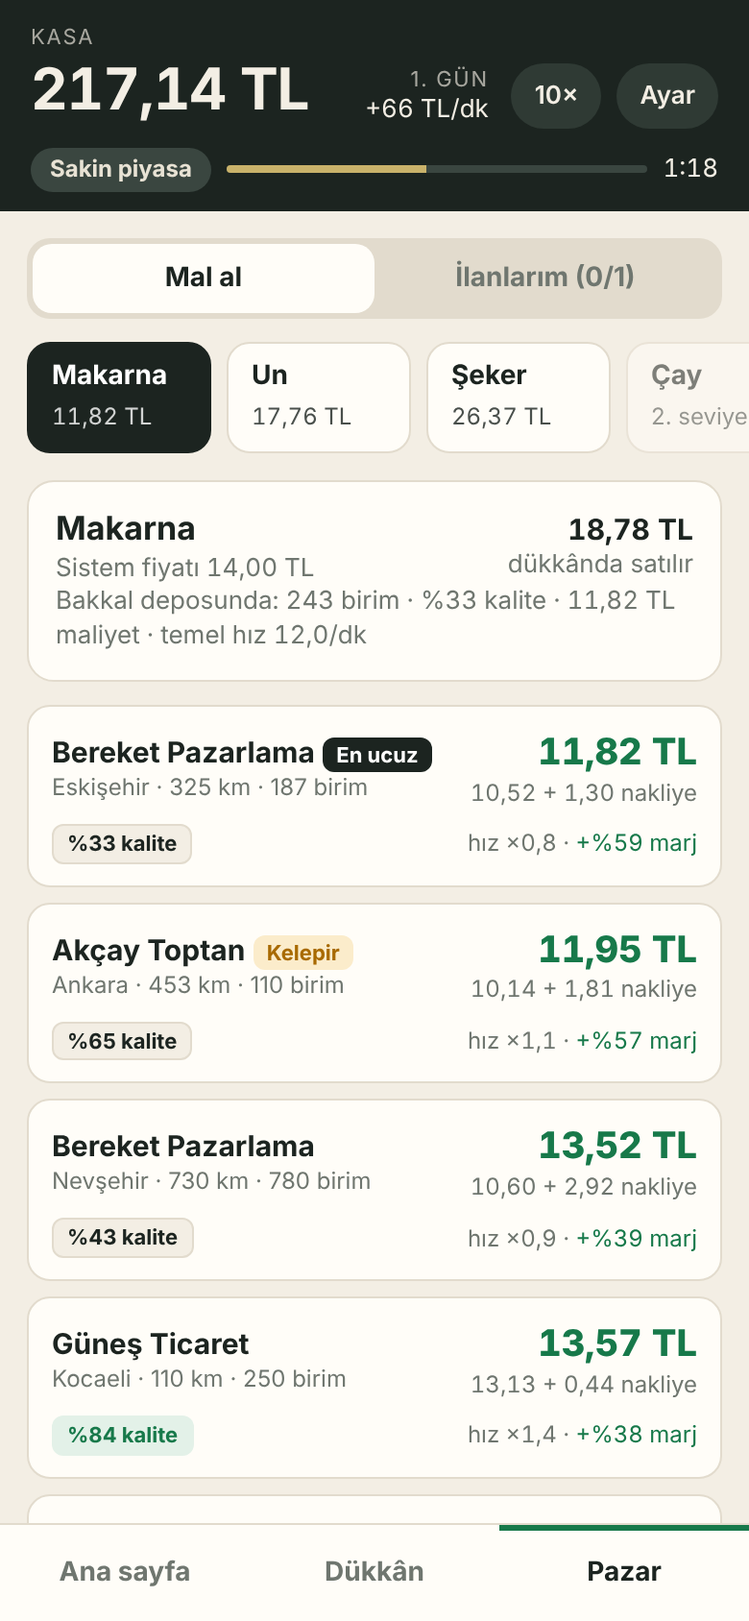
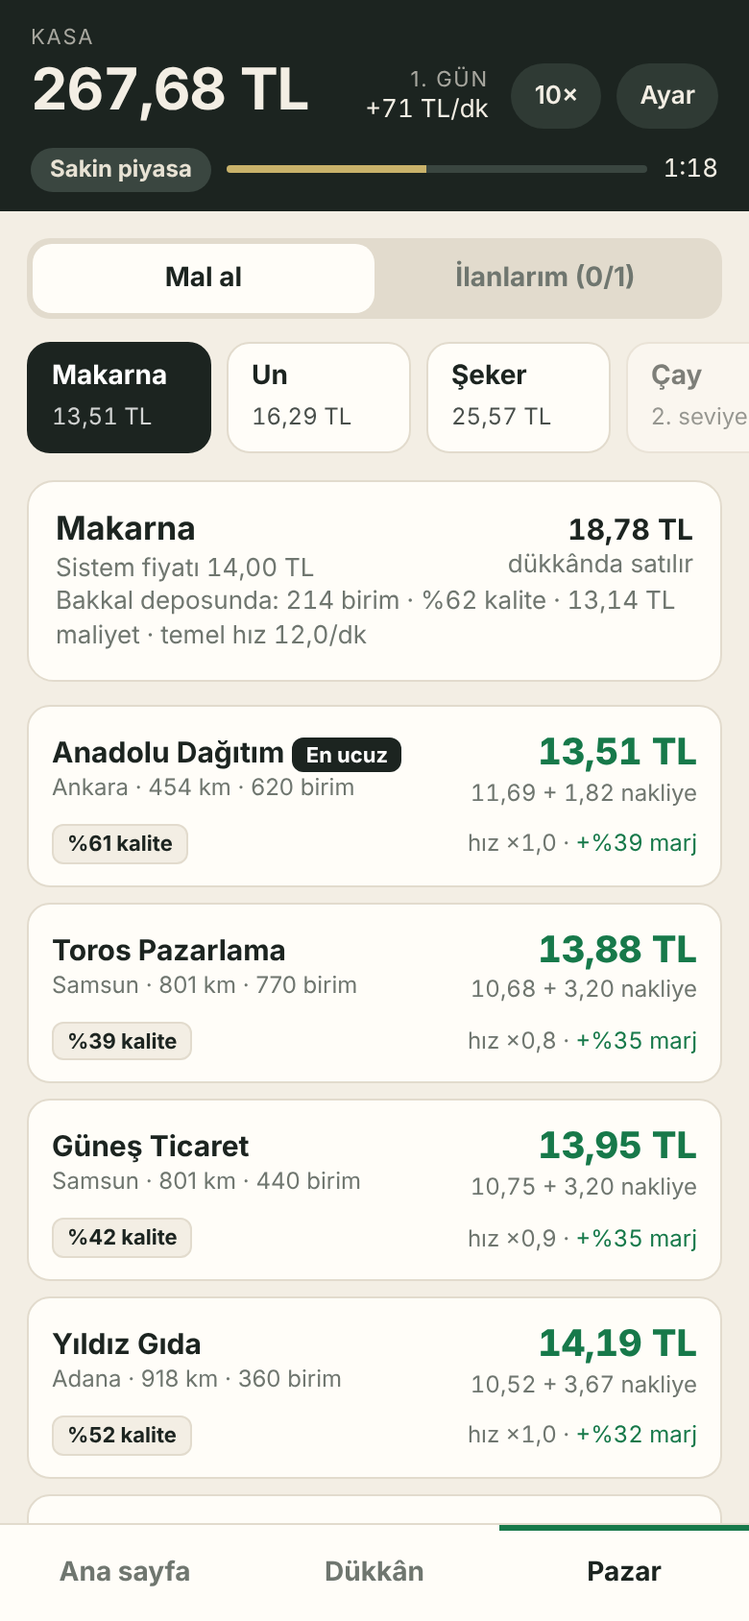
İller: Ankara ve İzmir şubeleri, dükkânın iline göre nakliye, il bazlı satış hızı ve kira
Claude-Session: https://claude.ai/code/session_016ga1EdVkJkJaVmwRgvhwTG

diff --git a/src/ui.ts b/src/ui.ts
@@ -3,9 +3,13 @@
 import {CONFIG} from "./data/config";
 import {TYPES} from "./data/shops";
 import {tl,clamp} from "./format";
-import {S,P,T,PIDS,roundP,sysPrice,refPrice,ship,net,sysListing,allListings,shopOf,depotUsed,depotCap,qualMult,shelfRate,shopProfit,profitPerMin,shopRent,upCost,xpNeed,maxBuy,buy,upgrade,openShop,loanLimit,borrow,repay,step,newGame,setOnEv,snapshot,restore,interestRate,taxFor,dayProfit,rentTotal,sellBack,sellBackPrice,dayProfitEstimate,shopOffers,offerFair,offerRateAt,offerSlots,createOffer,cancelOffer} from "./engine";
+import {SHOP_CITIES} from "./data/world";
+import * as E from "./engine";
+import {S,P,T,PIDS,roundP,sysPrice,refPrice,cityOf,depotUsed,depotCap,qualMult,shelfRate,shopProfit,profitPerMin,shopRent,upCost,xpNeed,upgrade,openShop,loanLimit,borrow,repay,step,newGame,setOnEv,snapshot,restore,interestRate,taxFor,dayProfit,rentTotal,sellBack,sellBackPrice,dayProfitEstimate,shopOffers,offerFair,offerRateAt,offerSlots,createOffer,cancelOffer} from "./engine";
 
 /* ---- Arayüz ---- */
+// Pazar her zaman seçili dükkân için açılır: nakliye ve net fiyat o dükkânın iline göre hesaplanır.
+const shopOf=()=>cur(),ship=l=>E.ship(l,cur()),net=l=>E.net(l,cur()),kmTo=l=>E.kmTo(l,cur()),sysListing=id=>E.sysListing(id,cur()),allListings=id=>E.allListings(id,cur()),maxBuy=l=>E.maxBuy(l,cur()),buy=(l,q)=>E.buy(l,q,cur());
 const $=id=>document.getElementById(id);
 let dirty=true,pend={},sheetL=null,sheetQ=0,toastT;
 const cur=()=>S.shops[S.cur];
@@ -28,27 +32,28 @@ function qTag(q){return `<span class="tag q ${q>=70?"hi":""}">%${Math.round(q)} 
 function spark(id){const h=S.market.hist[id];if(h.length<2)return"";const mn=Math.min(...h),mx=Math.max(...h),w=300,H=38;
   const pts=h.map((v,i)=>(i/(h.length-1)*w).toFixed(1)+","+(H-4-(mx===mn?.5:(v-mn)/(mx-mn))*(H-8)).toFixed(1)).join(" ");
   return `<svg class="sp" viewBox="0 0 ${w} ${H}" preserveAspectRatio="none"><polyline points="${pts}" fill="none" stroke="#17794a" stroke-width="2" vector-effect="non-scaling-stroke"/></svg>`}
-function reward(n){const a=TYPES.filter(t=>t.level===n).map(t=>t.ad+" açılabilir"),b=PIDS.filter(id=>P[id].lvl===n&&n>T[P[id].type].level).map(id=>T[P[id].type].ad+": "+P[id].ad);return a.concat(b.length?["yeni ürün: "+b.join(", ")]:[]).join(" · ")}
-const shopChips=()=>S.shops.length<2?"":`<div class="prods">`+S.shops.map((sh,i)=>`<button class="${i===S.cur?"on":""}" data-a="shopsel" data-v="${i}"><b>${T[sh.type].ad}</b><span>${CONFIG.sizes[sh.size].ad}</span></button>`).join("")+`</div>`;
+function reward(n){const a=TYPES.filter(t=>t.level===n).map(t=>t.ad+" açılabilir").concat(SHOP_CITIES.filter(c=>c.level===n&&n>1).map(c=>c.ad+"'da şube açılabilir")),b=PIDS.filter(id=>P[id].lvl===n&&n>T[P[id].type].level).map(id=>T[P[id].type].ad+": "+P[id].ad);return a.concat(b.length?["yeni ürün: "+b.join(", ")]:[]).join(" · ")}
+const shopChips=()=>S.shops.length<2?"":`<div class="prods">`+S.shops.map((sh,i)=>`<button class="${i===S.cur?"on":""}" data-a="shopsel" data-v="${i}"><b>${T[sh.type].ad}</b><span>${cityOf(sh).ad} · ${CONFIG.sizes[sh.size].ad}</span></button>`).join("")+`</div>`;
 const costBtn=(a,c,extra,dis)=>`<button class="btn" data-a="${a}" ${extra||""} data-cost="${c}" ${S.cash<c||dis?"disabled":""}>${tl(c,0)} TL</button>`;
 function renderHome(){
   const nx=xpNeed(S.level+1),pv=xpNeed(S.level),nu=reward(S.level+1);
   let h=`<div class="card lvl"><div class="row"><div><div class="lbl">Seviye</div><b class="big num">${S.level}</b></div><div style="text-align:right"><div class="sub num" id="xpT">Sonraki seviyeye ${tl(Math.max(0,nx-S.xp),0)} TL ciro</div>${nu?`<div class="sub">${S.level+1}. seviyede: ${nu}</div>`:""}</div></div><div class="depo"><i id="xpB" data-a0="${pv}" data-a1="${nx}" style="width:${clamp((S.xp-pv)/(nx-pv)*100,0,100)}%"></i></div></div>`;
   if(S.first)h+=`<div class="card hint"><b>Rafların boş.</b><div class="sub" style="color:inherit;margin:4px 0 12px">Pazardan mal al. Aldığın mal anında depoya girer ve satılmaya başlar.</div><button class="btn full" data-a="tab" data-v="market">Pazara git</button></div>`;
-  else{let al="";S.shops.forEach((sh,i)=>{sh.shelves.forEach(sf=>{if(sf&&sh.stock[sf.pid].q<=0)al+=`<div class="al"><span><b>${T[sh.type].ad}:</b> ${P[sf.pid].ad} bitti</span><button class="btn sm g" data-a="goto" data-v="${sf.pid}">Mal al</button></div>`});
-      const e=sh.shelves.filter(x=>!x).length;if(e)al+=`<div class="al"><span><b>${T[sh.type].ad}:</b> ${e} raf boş</span><button class="btn sm ghost" data-a="gomarket" data-v="${i}">Pazar</button></div>`});
+  else{let al="";S.shops.forEach((sh,i)=>{sh.shelves.forEach(sf=>{if(sf&&sh.stock[sf.pid].q<=0)al+=`<div class="al"><span><b>${T[sh.type].ad} (${cityOf(sh).ad}):</b> ${P[sf.pid].ad} bitti</span><button class="btn sm g" data-a="goto" data-i="${i}" data-v="${sf.pid}">Mal al</button></div>`});
+      const e=sh.shelves.filter(x=>!x).length;if(e)al+=`<div class="al"><span><b>${T[sh.type].ad} (${cityOf(sh).ad}):</b> ${e} raf boş</span><button class="btn sm ghost" data-a="gomarket" data-v="${i}">Pazar</button></div>`});
     if(S.debt>loanLimit())al+=`<div class="al"><span><b>Banka:</b> borcun kredi limitinin üstünde</span><button class="btn sm ghost" data-a="bank">Banka</button></div>`;
     if(al)h+=`<div class="card"><h2 style="margin-bottom:4px">Bekleyen işler</h2>${al}</div>`}
   h+=`<h3>Dükkânlarım</h3>`;
-  S.shops.forEach((sh,i)=>{const u=depotUsed(sh),pr=shopProfit(sh);h+=`<button class="lst" data-a="shopgo" data-v="${i}"><div class="row"><div><b>${T[sh.type].ad}</b><div class="sm">${CONFIG.sizes[sh.size].ad} · İstanbul · ${sh.shelves.filter(x=>x).length}/${sh.shelves.length} raf dolu</div></div><div style="text-align:right"><b class="num ${pr>=0?"up":"dn"}">${pr>=0?"+":"−"}${tl(Math.abs(pr),0)} TL/dk</b><div class="sm num">kira ${tl(shopRent(sh),0)} TL/gün</div></div></div><div class="depo"><i style="width:${u/depotCap(sh)*100}%"></i></div></button>`});
+  S.shops.forEach((sh,i)=>{const u=depotUsed(sh),pr=shopProfit(sh);h+=`<button class="lst" data-a="shopgo" data-v="${i}"><div class="row"><div><b>${T[sh.type].ad}</b><div class="sm">${CONFIG.sizes[sh.size].ad} · ${cityOf(sh).ad} · ${sh.shelves.filter(x=>x).length}/${sh.shelves.length} raf dolu</div></div><div style="text-align:right"><b class="num ${pr>=0?"up":"dn"}">${pr>=0?"+":"−"}${tl(Math.abs(pr),0)} TL/dk</b><div class="sm num">kira ${tl(shopRent(sh),0)} TL/gün</div></div></div><div class="depo"><i style="width:${u/depotCap(sh)*100}%"></i></div></button>`});
   const lim=loanLimit();h+=`<h3>Banka</h3><button class="lst" data-a="bank"><div class="row"><div><b>${S.debt>0?"Borç "+tl(S.debt,0)+" TL":"Borcun yok"}</b><div class="sm num">Kredi limiti ${tl(lim,0)} TL · faiz günde %${tl(interestRate()*100,1)}</div></div><div style="text-align:right"><b class="num ${S.debt>0?"dn":""}">${S.debt>0?"−"+tl(S.debt*interestRate(),0)+" TL/gün":tl(Math.max(0,lim-S.debt),0)+" TL"}</b><div class="sm">${S.debt>0?"faiz":"çekilebilir"}</div></div></div></button>`;
   const dp=dayProfit(),tx=taxFor(Math.max(0,dp));h+=`<h3>Devlet</h3><button class="lst" data-a="tax"><div class="row"><div><b>Vergi dairesi</b><div class="sm num">Bugünkü kâr <span id="dpT">${tl(dp,0)}</span> TL</div></div><div style="text-align:right"><b class="num ${tx>0?"dn":""}" id="txT">${tx>0?"−"+tl(tx,0)+" TL":"vergi yok"}</b><div class="sm">gün sonunda</div></div></div></button>`;
-  const rest=TYPES.filter(t=>!S.shops.some(s=>s.type===t.id));
-  if(rest.length){h+=`<h3>Yeni dükkân</h3>`;rest.forEach(t=>{const lk=S.level<t.level;h+=`<div class="card ${lk?"lock":""}"><div class="row"><div><h2>${t.ad}</h2><div class="sub">${t.products.slice(0,3).map(a=>a[1]).join(", ")} ve ${t.products.length-3} ürün daha</div></div>${lk?`<span class="tag q">${t.level}. seviyede açılır</span>`:costBtn("openshop",t.cost,`data-v="${t.id}"`)}</div></div>`})}
+  let nh="";TYPES.forEach(t=>{const lk=S.level<t.level,open=SHOP_CITIES.filter(c=>!S.shops.some(x=>x.type===t.id&&x.city===c.id));if(!open.length)return;
+    nh+=`<div class="card ${lk?"lock":""}"><div class="row"><div><h2>${t.ad}</h2><div class="sub">${t.products.slice(0,3).map(a=>a[1]).join(", ")} ve ${t.products.length-3} ürün daha</div></div>${lk?`<span class="tag q">${t.level}. seviyede açılır</span>`:""}</div>${lk?"":open.map(c=>`<div class="al"><span><b>${c.ad}</b><span class="sm num"> · satış ×${tl(c.demand,2)} · kira ×${tl(c.rentK,2)}</span></span>${S.level<c.level?`<span class="tag q">${c.level}. seviye</span>`:costBtn("openshop",t.cost,`data-v="${t.id}" data-c="${c.id}"`)}</div>`).join("")}</div>`});
+  if(nh)h+=`<h3>Yeni dükkân</h3>`+nh;
   return h}
 function renderShop(){
   const sh=cur(),t=T[sh.type],u=depotUsed(sh);
-  let h=shopChips()+`<div class="card"><div class="row"><div><h2>${t.ad}</h2><div class="sub">${CONFIG.sizes[sh.size].ad} dükkân · İstanbul · ${sh.shelves.length} raf</div></div><div style="text-align:right"><b class="num" id="depoN">${u}</b><span class="sub"> / ${depotCap(sh)} birim</span></div></div><div class="depo"><i id="depoB" style="width:${u/depotCap(sh)*100}%"></i></div></div>`;
+  let h=shopChips()+`<div class="card"><div class="row"><div><h2>${t.ad}</h2><div class="sub">${CONFIG.sizes[sh.size].ad} dükkân · ${cityOf(sh).ad} · ${sh.shelves.length} raf</div></div><div style="text-align:right"><b class="num" id="depoN">${u}</b><span class="sub"> / ${depotCap(sh)} birim</span></div></div><div class="depo"><i id="depoB" style="width:${u/depotCap(sh)*100}%"></i></div></div>`;
   sh.shelves.forEach((sf,i)=>{
     if(!sf){h+=`<div class="card"><div class="row"><div><h2>${i+1}. raf</h2><div class="sub">Boş. Pazardan aldığın yeni ürün buraya yerleşir.</div></div><button class="btn ghost" data-a="gomarket" data-v="${S.cur}">Pazar</button></div></div>`;return}
     const st=sh.stock[sf.pid],ref=refPrice(sf.pid),r=sf.price/ref,rate=st.q>0?shelfRate(sh,sf):0,diff=(r-1)*100,pr=rate*(sf.price-st.cost);
@@ -76,7 +81,7 @@ function renderBuy(seg){
   let h=shopChips()+seg+`<div class="prods">`+t.products.map(a=>{if(S.level<P[a[0]].lvl)return `<button class="lock" data-a="sel" data-v="${a[0]}"><b>${a[1]}</b><span>${P[a[0]].lvl}. seviye</span></button>`;const b=allListings(a[0])[0];return `<button class="${a[0]===id?"on":""}" data-a="sel" data-v="${a[0]}"><b>${a[1]}</b><span class="num">${tl(net(b))} TL</span></button>`}).join("")+`</div>`;
   h+=`<div class="card"><div class="row"><div><h2>${p.ad}</h2><div class="sub num">Sistem fiyatı ${tl(c0)} TL <span class="${ch>0.5?"up":ch<-0.5?"dn":""}">${Math.abs(ch)<.5?"":(ch>0?"▲":"▼")+" %"+tl(Math.abs(ch),0)}</span></div></div><div style="text-align:right"><b class="num">${tl(refPrice(id))} TL</b><div class="sub">dükkânda satılır</div></div></div>${spark(id)}<div class="sub num">${t.ad} deposunda: ${st.q} birim${st.q?` · %${Math.round(st.qual)} kalite · ${tl(st.cost)} TL maliyet`:""} · temel hız ${tl(p.rate,1)}/dk</div></div>`;
   allListings(id).forEach((l,i)=>{const mrg=(refPrice(id)/net(l)-1)*100;
-    h+=`<button class="lst ${l.sys?"sys":""}" data-a="open" data-v="${l.id}"><div class="row"><div><b>${l.seller}</b> ${i===0&&!l.sys?`<span class="tag best">En ucuz</span>`:""} ${l.kelepir?`<span class="tag k">Kelepir</span>`:""}<div class="sm">${l.city} · ${l.km} km · ${l.sys?"sınırsız":l.qty+" birim"}</div></div><div style="text-align:right"><div class="net num">${tl(net(l))} TL</div><div class="sm num">${tl(l.price)} + ${tl(ship(l))} nakliye</div></div></div><div class="row" style="margin-top:8px">${qTag(l.q)}<span class="sm num">hız ×${tl(qualMult(l.q),1)} · <span class="${mrg>0?"up":"dn"}">${mrg>=0?"+":"−"}%${tl(Math.abs(mrg),0)} marj</span></span></div></button>`});
+    h+=`<button class="lst ${l.sys?"sys":""}" data-a="open" data-v="${l.id}"><div class="row"><div><b>${l.seller}</b> ${i===0&&!l.sys?`<span class="tag best">En ucuz</span>`:""} ${l.kelepir?`<span class="tag k">Kelepir</span>`:""}<div class="sm">${l.city} · ${kmTo(l)} km · ${l.sys?"sınırsız":l.qty+" birim"}</div></div><div style="text-align:right"><div class="net num">${tl(net(l))} TL</div><div class="sm num">${tl(l.price)} + ${tl(ship(l))} nakliye</div></div></div><div class="row" style="margin-top:8px">${qTag(l.q)}<span class="sm num">hız ×${tl(qualMult(l.q),1)} · <span class="${mrg>0?"up":"dn"}">${mrg>=0?"+":"−"}%${tl(Math.abs(mrg),0)} marj</span></span></div></button>`});
   return h}
 function render(){
   $("main").innerHTML=S.tab==="home"?renderHome():S.tab==="shop"?renderShop():renderMarket();
@@ -104,7 +109,7 @@ function buyCalc(){const l=sheetL,st=shopOf(l.pid).stock[l.pid],nq=st.q+sheetQ,n
 function buySheet(){
   const l=sheetL,mx=maxBuy(l),sh=shopOf(l.pid);sheetQ=clamp(sheetQ,mx>0?1:0,mx);
   const why=mx>0?"":S.cash<net(l)?"Kasada yeterli para yok.":depotCap(sh)-depotUsed(sh)<=0?"Depo dolu.":"";
-  openSheet(`<div class="row"><div><h2>${P[l.pid].ad}</h2><div class="sub">${l.seller} · ${l.city} (${l.km} km)</div></div>${qTag(l.q)}</div>
+  openSheet(`<div class="row"><div><h2>${P[l.pid].ad}</h2><div class="sub">${l.seller} · ${l.city} (${kmTo(l)} km)</div></div>${qTag(l.q)}</div>
   <table class="tbl num"><tr><td>Birim fiyat</td><td>${tl(l.price)} TL</td></tr><tr><td>Nakliye</td><td>${tl(ship(l))} TL</td></tr><tr><td>Net fiyat</td><td class="up">${tl(net(l))} TL</td></tr></table>
   ${mx>0?`<div class="row"><b>Miktar</b><b class="num" style="font-size:20px" id="sq"></b></div><input type="range" id="qr" min="1" max="${mx}" value="${sheetQ}">
   <div class="qk"><button data-a="qk" data-v=".25">%25</button><button data-a="qk" data-v=".5">%50</button><button data-a="qk" data-v="1">En fazla (${mx})</button></div>
@@ -178,7 +183,7 @@ document.addEventListener("click",e=>{
   else if(a==="dosell"){const q=+$("sr").value,r=sellBack(cur(),sheetP,q);closeSheet();if(r)toast(q+" birim "+P[sheetP].ad+" satıldı: "+tl(r,0)+" TL.")}
   else if(a==="borrow"){const x=borrow(+$("bq").value);if(x)toast(tl(x,0)+" TL kredi çekildi.");bankSheet();tickUI();return}
   else if(a==="repay"){const x=repay(+$("pq").value);if(x)toast(tl(x,0)+" TL borç ödendi.");bankSheet();tickUI();return}
-  else if(a==="goto"){S.cur=S.shops.indexOf(shopOf(v));S.sel[P[v].type]=v;S.tab="market";top()}
+  else if(a==="goto"){if(b.dataset.i!=null)S.cur=i;S.sel[P[v].type]=v;S.tab="market";top()}
   else if(a==="speed")S.speed=S.speed===1?3:S.speed===3?10:1;
   else if(a==="price"){const sf=cur().shelves[i],ref=refPrice(sf.pid),stp=Math.max(.05,roundP(ref*.02));sf.price=clamp(roundP(sf.price+stp*v),roundP(ref*.7),roundP(ref*1.3))}
   else if(a==="open"){const l=findL(v);if(!l){toast("Bu ilan az önce tükendi.");dirty=true;return}sheetL=l;sheetQ=Math.ceil(maxBuy(l)/2);buySheet();return}
@@ -188,7 +193,7 @@ document.addEventListener("click",e=>{
   else if(a==="swap"){swapSheet(i);return}
   else if(a==="setp"){cur().shelves[i]={pid:v,price:roundP(refPrice(v))};closeSheet()}
   else if(a==="upgrade"){const sh=cur();if(upgrade(sh))toast(T[sh.type].ad+" artık "+CONFIG.sizes[sh.size].ad.toLowerCase()+" dükkân.")}
-  else if(a==="openshop"){if(openShop(v)){S.cur=S.shops.length-1;S.tab="market";top();toast(T[v].ad+" açıldı. Raflar için mal al.")}}
+  else if(a==="openshop"){if(openShop(v,b.dataset.c)){S.cur=S.shops.length-1;S.tab="market";S.mview="buy";top();toast(cityOf(cur()).ad+" "+T[v].ad+" açıldı. Raflar için mal al.")}}
   else if(a==="settings"){settingsSheet();return}
   else if(a==="reset"){newGame();closeSheet();save()}
   else if(a==="close"){closeSheet()}

diff --git a/src/engine.ts b/src/engine.ts
@@ -1,13 +1,13 @@
 // Oyun motoru. DOM bilmez; Node'da da çalışır (testler ve simülasyon bunu kullanır).
 import { CONFIG, MarketState } from "./data/config";
 import { TYPES, ShopType } from "./data/shops";
-import { CITIES, SELLERS } from "./data/world";
+import { CITIES, SELLERS, SHOP_CITIES, ShopCity, distKm } from "./data/world";
 import { clamp } from "./format";
 
 export interface Product { id: string; ad: string; sys: number; type: string; rate: number; markup: number; lvl: number }
 export interface Stock { q: number; qual: number; cost: number; mref?: number } // mref: alış anındaki piyasa seviyesi (paçal)
 export interface Shelf { pid: string; price: number }
-export interface Shop { type: string; val: number; size: number; shelves: (Shelf | null)[]; stock: Record<string, Stock>; acc: Record<string, number> }
+export interface Shop { type: string; city: string; val: number; size: number; shelves: (Shelf | null)[]; stock: Record<string, Stock>; acc: Record<string, number> }
 export interface Listing { id: number; pid: string; seller: string; city: string; km: number; q: number; qty: number; price: number; kelepir?: boolean; sys?: boolean }
 export interface Offer { id: number; si: number; pid: string; qty: number; price: number; q: number; cost: number; acc: number; mref?: number }
 export interface FeedItem { t: string; v: number; si: number; nw?: number }
@@ -44,15 +44,18 @@ const pick = <X,>(a: X[]): X => a[Math.floor(rnd() * a.length)];
 export let S: State = null as unknown as State;
 let lid = 1;
 export const snapshot = () => ({ S, lid });
-export function restore(j: { S: State; lid: number }) { S = j.S; lid = j.lid; if (!S.offers) S.offers = []; }
+export function restore(j: { S: State; lid: number }) { S = j.S; lid = j.lid; if (!S.offers) S.offers = []; S.shops.forEach((s) => { if (!s.city) s.city = "istanbul"; }); }
 
 let onEv: (k: Ev, d?: any) => void = () => {};
 export function setOnEv(f: (k: Ev, d?: any) => void) { onEv = f; }
 const ev = (k: Ev, d?: any) => onEv(k, d);
 
 function fitShelves(sh: Shop) { while (sh.shelves.length < CONFIG.sizes[sh.size].shelves) sh.shelves.push(null); }
-function mkShop(type: string): Shop {
-  const sh: Shop = { type, val: T[type].cost, size: 0, shelves: [], stock: {}, acc: {} };
+const CITY: Record<string, ShopCity> = {};
+SHOP_CITIES.forEach((c) => (CITY[c.id] = c));
+export const cityOf = (sh: Shop) => CITY[sh.city] || SHOP_CITIES[0];
+function mkShop(type: string, city = "istanbul"): Shop {
+  const sh: Shop = { type, city, val: T[type].cost, size: 0, shelves: [], stock: {}, acc: {} };
   T[type].products.forEach((a) => { sh.stock[a[0]] = { q: 0, qual: 0, cost: 0 }; sh.acc[a[0]] = 0; });
   fitShelves(sh);
   return sh;
@@ -78,12 +81,16 @@ function genListing(id: string): Listing {
   let d = qualDiscount(q) + rr(-0.04, 0.04);
   const kelepir = rnd() < 0.1;
   if (kelepir) d += rr(0.08, 0.14);
-  return { id: lid++, pid: id, seller: pick(SELLERS), city: c[0], km: c[1], q, qty: ri(10, 80) * 10, price: +(sysPrice(id) * (1 - d)).toFixed(2), kelepir };
+  return { id: lid++, pid: id, seller: pick(SELLERS), city: c.ad, km: distKm(c.ad, "İstanbul"), q, qty: ri(10, 80) * 10, price: +(sysPrice(id) * (1 - d)).toFixed(2), kelepir };
 }
-export const ship = (l: Listing) => +(l.km * CONFIG.shipPerKm).toFixed(2);
-export const net = (l: Listing) => +(l.price + ship(l)).toFixed(2);
-export const sysListing = (id: string): Listing => ({ id: 0, pid: id, seller: "Sistem Toptancısı", city: "İstanbul", km: 20, q: 50, qty: Infinity, price: +sysPrice(id).toFixed(2), sys: true });
-export function allListings(id: string): Listing[] { return S.listings[id].slice().sort((a, b) => net(a) - net(b)).concat([sysListing(id)]); }
+// Nakliye, ilanın şehrinden malı alan dükkânın iline olan mesafeye göre hesaplanır.
+// sh verilmezse o ürünü satan ilk dükkân (yoksa İstanbul) esas alınır.
+const shopFor = (l: Listing, sh?: Shop) => sh || shopOf(l.pid);
+export const kmTo = (l: Listing, sh?: Shop) => { const s = shopFor(l, sh); return distKm(l.city, s ? cityOf(s).ad : "İstanbul"); };
+export const ship = (l: Listing, sh?: Shop) => +(kmTo(l, sh) * CONFIG.shipPerKm).toFixed(2);
+export const net = (l: Listing, sh?: Shop) => +(l.price + ship(l, sh)).toFixed(2);
+export const sysListing = (id: string, sh?: Shop): Listing => ({ id: 0, pid: id, seller: "Sistem Toptancısı", city: sh ? cityOf(sh).ad : "İstanbul", km: 20, q: 50, qty: Infinity, price: +sysPrice(id).toFixed(2), sys: true });
+export function allListings(id: string, sh?: Shop): Listing[] { return S.listings[id].slice().sort((a, b) => net(a, sh) - net(b, sh)).concat([sysListing(id, sh)]); }
 
 // ---- Dükkân ----
 export const shopOf = (pid: string) => S.shops.find((s) => s.type === P[pid].type);
@@ -94,25 +101,23 @@ export const depotCap = (sh: Shop) => CONFIG.sizes[sh.size].depot;
 export const priceMult = (r: number) => clamp(1 + (1 - r) * 3, 0.6, 1.6);
 export const qualMult = (q: number) => (q >= 70 ? 1.4 : q >= 40 ? 0.9 + ((q - 40) / 30) * 0.2 : 0.8);
 /** Rafın dakikalık satış hızı: garantili taban hız x fiyat çarpanı x kalite çarpanı. */
-export function shelfRate(sh: Shop, sf: Shelf | null) { if (!sf) return 0; return P[sf.pid].rate * CONFIG.rateScale * priceMult(sf.price / refPrice(sf.pid)) * qualMult(sh.stock[sf.pid].qual); }
+export function shelfRate(sh: Shop, sf: Shelf | null) { if (!sf) return 0; return P[sf.pid].rate * CONFIG.rateScale * cityOf(sh).demand * priceMult(sf.price / refPrice(sf.pid)) * qualMult(sh.stock[sf.pid].qual); }
 export const shopProfit = (sh: Shop) => sh.shelves.reduce((s, sf) => s + (sf && sh.stock[sf.pid].q > 0 ? shelfRate(sh, sf) * (sf.price - sh.stock[sf.pid].cost) : 0), 0);
 export const profitPerMin = () => S.shops.reduce((s, sh) => s + shopProfit(sh), 0);
-export const shopRent = (sh: Shop) => Math.round(CONFIG.sizes[sh.size].rent * T[sh.type].tier * CONFIG.rentScale);
+export const shopRent = (sh: Shop) => Math.round(CONFIG.sizes[sh.size].rent * T[sh.type].tier * cityOf(sh).rentK * CONFIG.rentScale);
 export const upCost = (sh: Shop) => (sh.size < 2 ? Math.round(T[sh.type].cost * CONFIG.sizes[sh.size + 1].costK) : null);
 export const xpNeed = (n: number) => CONFIG.xpBase * Math.pow(n - 1, CONFIG.xpPow);
 export const roundP = (x: number) => Math.round(x * 20) / 20;
 
-export function maxBuy(l: Listing) {
-  const sh = shopOf(l.pid);
-  if (!sh || S.level < P[l.pid].lvl) return 0;
-  return Math.max(0, Math.min(l.qty, Math.floor(S.cash / net(l)), depotCap(sh) - depotUsed(sh)));
+export function maxBuy(l: Listing, sh: Shop | undefined = shopOf(l.pid)) {
+  if (!sh || sh.type !== P[l.pid].type || S.level < P[l.pid].lvl) return 0;
+  return Math.max(0, Math.min(l.qty, Math.floor(S.cash / net(l, sh)), depotCap(sh) - depotUsed(sh)));
 }
 /** Malı alır: anında depoya girer, kalite ve maliyet ağırlıklı ortalamayla (paçal) birleşir. */
-export function buy(l: Listing, qty: number) {
-  const sh = shopOf(l.pid);
-  qty = Math.min(qty, maxBuy(l));
+export function buy(l: Listing, qty: number, sh: Shop | undefined = shopOf(l.pid)) {
+  qty = Math.min(qty, maxBuy(l, sh));
   if (!sh || qty <= 0) return 0;
-  const st = sh.stock[l.pid], cost = qty * net(l);
+  const st = sh.stock[l.pid], cost = qty * net(l, sh);
   const m = S.market.mult[l.pid];
   st.mref = ((st.mref || m) * st.q + m * qty) / (st.q + qty);
   st.qual = (st.qual * st.q + l.q * qty) / (st.q + qty);
@@ -128,7 +133,12 @@ export function buy(l: Listing, qty: number) {
   return qty;
 }
 export function upgrade(sh: Shop) { const c = upCost(sh); if (c == null || S.cash < c) return false; S.cash -= c; sh.val += c; sh.size++; fitShelves(sh); return true; }
-export function openShop(type: string) { const t = T[type]; if (S.level < t.level || S.cash < t.cost || S.shops.some((s) => s.type === type)) return false; S.cash -= t.cost; S.shops.push(mkShop(type)); return true; }
+/** Her ilde her türden bir dükkân açılabilir. */
+export function openShop(type: string, city = "istanbul") {
+  const t = T[type], c = CITY[city];
+  if (!t || !c || S.level < t.level || S.level < c.level || S.cash < t.cost || S.shops.some((s) => s.type === type && s.city === city)) return false;
+  S.cash -= t.cost; S.shops.push(mkShop(type, city)); return true;
+}
 
 /** Hemen satış fiyatı: maliyetin sellBackLoss kadar altı. */
 export function sellBackPrice(sh: Shop, pid: string) {

diff --git a/scripts/bot.ts b/scripts/bot.ts
@@ -2,6 +2,7 @@
 import * as k from "../src/engine";
 import { CONFIG } from "../src/data/config";
 import { TYPES } from "../src/data/shops";
+import { SHOP_CITIES } from "../src/data/world";
 
 export interface BotResult { lv: Record<number, number>; ev: string[]; dead: number | null; cash: number; debt: number; level: number; shops: string; flip: number }
 
@@ -10,9 +11,9 @@ export function runBot(seed: number, mode: "ucuz" | "olcu" | "kredi" | "stok" | 
   const S = k.S, res: BotResult = { lv: {}, ev: [], dead: null, cash: 0, debt: 0, level: 1, shops: "", flip: 0 };
   k.setOnEv((e, d) => { if (e === "offerSale") res.flip += d.r; });
   const m = () => Math.round(S.t / 60);
-  const best = (pid: string) => {
-    let b = k.allListings(pid)[0], bv = -1;
-    for (const l of k.allListings(pid)) { const v = (k.refPrice(pid) - k.net(l)) * k.qualMult(l.q); if (v > bv) { bv = v; b = l; } }
+  const best = (pid: string, sh: k.Shop) => {
+    let b = k.allListings(pid, sh)[0], bv = -1;
+    for (const l of k.allListings(pid, sh)) { const v = (k.refPrice(pid) - k.net(l, sh)) * k.qualMult(l.q); if (v > bv) { bv = v; b = l; } }
     return b;
   };
   let lv = 1;
@@ -22,7 +23,7 @@ export function runBot(seed: number, mode: "ucuz" | "olcu" | "kredi" | "stok" | 
     if (S.level > lv) { lv = S.level; res.lv[lv] = m(); }
     if (i % 5) continue;
     if (mode === "olcu" || mode === "kredi" || mode === "ilan") { const av = k.loanLimit() * (mode === "kredi" ? 1 : 0.5) - S.debt; if (av >= 500) k.borrow(Math.floor(av / 100) * 100); }
-    for (const t of TYPES) if (!S.shops.some((s) => s.type === t.id) && S.level >= t.level && S.cash >= t.cost + 1500 && k.openShop(t.id)) res.ev.push(t.id + "@" + m());
+    for (const c of SHOP_CITIES) for (const t of TYPES) if (S.level >= t.level && S.level >= c.level && !S.shops.some((s) => s.type === t.id && s.city === c.id) && S.cash >= t.cost + 1500 && k.openShop(t.id, c.id)) res.ev.push(t.id + (c.id === "istanbul" ? "" : ":" + c.id) + "@" + m());
     for (const sh of S.shops) { const c = k.upCost(sh); if (c != null && S.cash >= c + 1500 && sh.shelves.every((x) => x) && k.upgrade(sh)) res.ev.push(sh.type + "^" + sh.size + "@" + m()); }
     if (mode === "ilan" && i % 30 === 0) for (const sh of S.shops) {
       // Açık ilanları güncel piyasa değerine çek; zararına satma, bekle.
@@ -30,21 +31,21 @@ export function runBot(seed: number, mode: "ucuz" | "olcu" | "kredi" | "stok" | 
       if (k.shopOffers(sh).length >= k.offerSlots(sh)) continue;
       // Komisyondan sonra en az %4 kâr bırakan en iyi ilanı bul, kasanın üçte biriyle al, piyasa değerinden sat.
       let bestL: k.Listing | null = null, bv = 0.04;
-      for (const a of k.T[sh.type].products) { if (S.level < k.P[a[0]].lvl) continue; for (const l of k.allListings(a[0])) { if (l.sys) continue; const v = (k.offerFair(l.pid, l.q) * (1 - CONFIG.offerFee)) / k.net(l) - 1; if (v > bv) { bv = v; bestL = l; } } }
-      if (bestL) { const had = sh.stock[bestL.pid].q, got = k.buy(bestL, Math.floor(S.cash / 3 / k.net(bestL))); if (got > 0) k.createOffer(sh, bestL.pid, got, k.offerFair(bestL.pid, sh.stock[bestL.pid].qual)) ; void had; }
+      for (const a of k.T[sh.type].products) { if (S.level < k.P[a[0]].lvl) continue; for (const l of k.allListings(a[0], sh)) { if (l.sys) continue; const v = (k.offerFair(l.pid, l.q) * (1 - CONFIG.offerFee)) / k.net(l, sh) - 1; if (v > bv) { bv = v; bestL = l; } } }
+      if (bestL) { const had = sh.stock[bestL.pid].q, got = k.buy(bestL, Math.floor(S.cash / 3 / k.net(bestL, sh)), sh); if (got > 0) k.createOffer(sh, bestL.pid, got, k.offerFair(bestL.pid, sh.stock[bestL.pid].qual)) ; void had; }
     }
     for (const sh of S.shops) {
       const prods = k.T[sh.type].products.map((a) => a[0]).filter((p) => S.level >= k.P[p].lvl);
-      const ranked = prods.map((pid) => ({ pid, v: (k.refPrice(pid) - k.net(best(pid))) * k.P[pid].rate })).sort((a, b) => b.v - a.v);
+      const ranked = prods.map((pid) => ({ pid, v: (k.refPrice(pid) - k.net(best(pid, sh), sh)) * k.P[pid].rate })).sort((a, b) => b.v - a.v);
       const onShelf = sh.shelves.filter((x) => x).map((x) => x!.pid);
       const want = onShelf.concat(ranked.map((o) => o.pid).filter((p) => !onShelf.includes(p))).slice(0, sh.shelves.length);
       for (const pid of want) {
-        if (sh.stock[pid].q < 30) { const l = best(pid); if (k.net(l) < k.refPrice(pid) * 0.97) {
+        if (sh.stock[pid].q < 30) { const l = best(pid, sh); if (k.net(l, sh) < k.refPrice(pid) * 0.97) {
           if (mode === "stok") { // depoyu doldur: kasa yetmiyorsa farkı bankadan çek
-            const q = Math.min(l.qty, Math.floor((k.depotCap(sh) - k.depotUsed(sh)) / want.length)), need = q * k.net(l) - S.cash;
+            const q = Math.min(l.qty, Math.floor((k.depotCap(sh) - k.depotUsed(sh)) / want.length)), need = q * k.net(l, sh) - S.cash;
             if (need > 0) k.borrow(Math.ceil(need / 100) * 100);
-            k.buy(l, q);
-          } else k.buy(l, Math.min(Math.floor(S.cash / want.length / k.net(l)), mode === "ucuz" ? 400 : 1500));
+            k.buy(l, q, sh);
+          } else k.buy(l, Math.min(Math.floor(S.cash / want.length / k.net(l, sh)), mode === "ucuz" ? 400 : 1500), sh);
         } }
         const sf = sh.shelves.find((s) => s && s.pid === pid);
         if (sf) sf.price = k.roundP(k.refPrice(pid));
@@ -54,6 +55,6 @@ export function runBot(seed: number, mode: "ucuz" | "olcu" | "kredi" | "stok" | 
   k.setOnEv(() => {});
   res.flip = Math.round(res.flip);
   res.cash = Math.round(S.cash); res.debt = Math.round(S.debt); res.level = S.level;
-  res.shops = S.shops.map((s) => s.type[0] + CONFIG.sizes[s.size].ad[0]).join(" ");
+  res.shops = String(S.shops.length);
   return res;
 }

diff --git a/tests/engine.test.ts b/tests/engine.test.ts
@@ -8,12 +8,14 @@ const mk = (pid: string, q: number, price: number, qty = 1000): k.Listing => ({ 
 
 describe("mal alımı", () => {
   it("kalite ve maliyet ağırlıklı ortalamayla birleşir", () => {
-    k.buy(mk("makarna", 40, 10), 50); k.buy(mk("makarna", 80, 14), 50);
+    const a = mk("makarna", 40, 10), b = mk("makarna", 80, 14);
+    k.buy(a, 50); k.buy(b, 50);
     const st = k.S.shops[0].stock.makarna;
-    expect(st.q).toBe(100); expect(st.qual).toBeCloseTo(60); expect(st.cost).toBeCloseTo(12);
+    expect(st.q).toBe(100); expect(st.qual).toBeCloseTo(60); expect(st.cost).toBeCloseTo((k.net(a) + k.net(b)) / 2); // nakliye dahil
   });
   it("kasayı ve depoyu aşamaz", () => {
-    expect(k.buy(mk("makarna", 50, 10), 99999)).toBe(300); // 3000 TL / 10
+    const l = mk("makarna", 50, 10);
+    expect(k.buy(l, 99999)).toBe(Math.floor(CONFIG.startCash / k.net(l)));
     expect(k.S.cash).toBeGreaterThanOrEqual(0);
     k.S.cash = 1e6; k.buy(mk("makarna", 50, 1, 99999), 99999);
     expect(k.depotUsed(k.S.shops[0])).toBe(CONFIG.sizes[0].depot);
@@ -110,6 +112,34 @@ describe("pazarda ilan", () => {
     k.buy(mk("makarna", 80, 14), 100); // depoda artık 100 @%50 + 100 @%80
     k.cancelOffer(o.id);
     expect(sh.stock.makarna.q).toBe(300); expect(sh.stock.makarna.qual).toBeCloseTo(60); expect(k.S.offers.length).toBe(0);
+  });
+});
+
+describe("iller", () => {
+  const far = (city: string): k.Listing => ({ id: 998, pid: "makarna", seller: "T", city, km: 0, q: 50, qty: 1000, price: 10 });
+  it("nakliye, malı alan dükkânın iline göre hesaplanır", () => {
+    k.S.level = 9; k.S.cash = 1e6;
+    expect(k.openShop("bakkal", "ankara")).toBe(true);
+    const [ist, ank] = k.S.shops, l = far("Ankara");
+    expect(k.ship(l, ank)).toBeLessThan(k.ship(l, ist));
+    expect(k.kmTo(l, ank)).toBe(20);
+    expect(k.kmTo(l, ist)).toBeGreaterThan(400); expect(k.kmTo(l, ist)).toBeLessThan(500);
+    k.buy(l, 100, ank);
+    expect(ank.stock.makarna.q).toBe(100); expect(ist.stock.makarna.q).toBe(0);
+  });
+  it("aynı ilde aynı türden ikinci dükkân açılamaz, il seviyesi gelmeden şube açılamaz", () => {
+    k.S.cash = 1e6;
+    expect(k.openShop("bakkal", "istanbul")).toBe(false);
+    expect(k.openShop("bakkal", "ankara")).toBe(false); // 1. seviye
+    k.S.level = 4;
+    expect(k.openShop("bakkal", "ankara")).toBe(true); expect(k.openShop("bakkal", "ankara")).toBe(false);
+  });
+  it("ilin nüfusu satış hızını, kira çarpanı kirayı etkiler", () => {
+    k.S.level = 9; k.S.cash = 1e6; k.openShop("bakkal", "ankara");
+    const [ist, ank] = k.S.shops;
+    k.buy(mk("makarna", 50, 10), 50, ist); k.buy(mk("makarna", 50, 10), 50, ank);
+    expect(k.shelfRate(ank, ank.shelves[0]) / k.shelfRate(ist, ist.shelves[0])).toBeCloseTo(0.85);
+    expect(k.shopRent(ank)).toBeLessThan(k.shopRent(ist));
   });
 });
 

diff --git a/src/data/world.ts b/src/data/world.ts
@@ -1,3 +1,31 @@
-// Toptancıların bulunduğu şehirler: [ad, İstanbul'a uzaklık km]. Satıcı adları kurgusaldır.
-export const CITIES: [string, number][] = [["İstanbul", 20], ["Kocaeli", 110], ["Bursa", 243], ["Eskişehir", 325], ["Ankara", 453], ["İzmir", 480], ["Konya", 660], ["Nevşehir", 730], ["Samsun", 735], ["Mersin", 932], ["Adana", 940], ["Trabzon", 1070], ["Gaziantep", 1140]];
+// Şehirler ve aralarındaki mesafe. Satıcı adları kurgusaldır.
+export interface City { ad: string; lat: number; lon: number }
+/** Toptancıların bulunduğu şehirler. */
+export const CITIES: City[] = [
+  { ad: "İstanbul", lat: 41.01, lon: 28.98 }, { ad: "Kocaeli", lat: 40.77, lon: 29.92 }, { ad: "Bursa", lat: 40.19, lon: 29.06 },
+  { ad: "Eskişehir", lat: 39.78, lon: 30.52 }, { ad: "Ankara", lat: 39.93, lon: 32.86 }, { ad: "İzmir", lat: 38.42, lon: 27.14 },
+  { ad: "Konya", lat: 37.87, lon: 32.48 }, { ad: "Nevşehir", lat: 38.62, lon: 34.71 }, { ad: "Samsun", lat: 41.29, lon: 36.33 },
+  { ad: "Mersin", lat: 36.8, lon: 34.63 }, { ad: "Adana", lat: 37.0, lon: 35.32 }, { ad: "Trabzon", lat: 41.0, lon: 39.72 },
+  { ad: "Gaziantep", lat: 37.07, lon: 37.38 },
+];
+/** Dükkân açılabilen iller. demand: satış hızı çarpanı (nüfus). rentK: kira çarpanı. level: açılma seviyesi. */
+export interface ShopCity { id: string; ad: string; level: number; demand: number; rentK: number }
+export const SHOP_CITIES: ShopCity[] = [
+  { id: "istanbul", ad: "İstanbul", level: 1, demand: 1, rentK: 1 },
+  { id: "ankara", ad: "Ankara", level: 4, demand: 0.85, rentK: 0.7 },
+  { id: "izmir", ad: "İzmir", level: 7, demand: 0.8, rentK: 0.65 },
+];
 export const SELLERS = ["Yıldız Gıda", "Akçay Toptan", "Demirci Ticaret", "Bereket Pazarlama", "Öztürk Kardeşler", "Anadolu Dağıtım", "Karaca Gıda", "Marmara Toptan", "Güneş Ticaret", "Sarıkaya Gıda", "Poyraz Dağıtım", "Toros Pazarlama"];
+
+const ROAD = 1.3; // kuş uçuşu mesafeyi karayoluna yaklaştıran çarpan
+const CITY_KM = 20; // aynı şehir içi
+const byAd: Record<string, City> = {};
+CITIES.forEach((c) => (byAd[c.ad] = c));
+/** İki şehir arası yaklaşık karayolu mesafesi (km). */
+export function distKm(a: string, b: string): number {
+  const A = byAd[a], B = byAd[b];
+  if (!A || !B || a === b) return CITY_KM;
+  const r = Math.PI / 180, dLat = (B.lat - A.lat) * r, dLon = (B.lon - A.lon) * r;
+  const h = Math.sin(dLat / 2) ** 2 + Math.cos(A.lat * r) * Math.cos(B.lat * r) * Math.sin(dLon / 2) ** 2;
+  return Math.max(CITY_KM, Math.round(6371 * 2 * Math.asin(Math.sqrt(h)) * ROAD));
+}

diff --git a/scripts/sim.ts b/scripts/sim.ts
@@ -1,9 +1,9 @@
 // npm run sim — beş bot tipini üç dünyada 5 oyun saati oynatır, kilometre taşlarını oyun dakikası olarak basar.
 import { runBot } from "./bot";
 const at = (r: ReturnType<typeof runBot>, key: string) => { const e = r.ev.find((x) => x.startsWith(key)); return e ? e.split("@")[1].padStart(4) : "   -"; };
-console.log("bot    dünya | 2.sv 3.sv 6.sv 9.sv | bakkal↑ manav kuruy. tekel | son: seviye  kasa     borç    iflas  ilan cirosu");
+console.log("bot    dünya | 2.sv 3.sv 6.sv 9.sv | bakkal↑ manav kuruy. tekel şube dükkân | son: seviye  kasa     borç    iflas  ilan cirosu");
 for (const mode of ["ucuz", "olcu", "kredi", "stok", "ilan"] as const)
   for (const seed of [11, 222, 3333]) {
     const r = runBot(seed, mode, 300), lv = (n: number) => String(r.lv[n] ?? "-").padStart(4);
-    console.log(`${mode.padEnd(6)} ${String(seed).padStart(5)} | ${lv(2)} ${lv(3)} ${lv(6)} ${lv(9)} | ${at(r, "bakkal^1")}    ${at(r, "manav@")}  ${at(r, "kuruyemis@")}   ${at(r, "tekel@")} | ${String(r.level).padStart(10)} ${String(r.cash).padStart(7)} ${String(r.debt).padStart(8)}  ${String(r.dead ?? "yok").padEnd(5)} ${r.flip || ""}`);
+    console.log(`${mode.padEnd(6)} ${String(seed).padStart(5)} | ${lv(2)} ${lv(3)} ${lv(6)} ${lv(9)} | ${at(r, "bakkal^1")}    ${at(r, "manav@")}  ${at(r, "kuruyemis@")}   ${at(r, "tekel@")} ${(r.ev.find((x) => x.includes(":"))?.split("@")[1] ?? "-").padStart(4)} ${r.shops.padStart(6)} | ${String(r.level).padStart(10)} ${String(r.cash).padStart(7)} ${String(r.debt).padStart(8)}  ${String(r.dead ?? "yok").padEnd(5)} ${r.flip || ""}`);
   }
